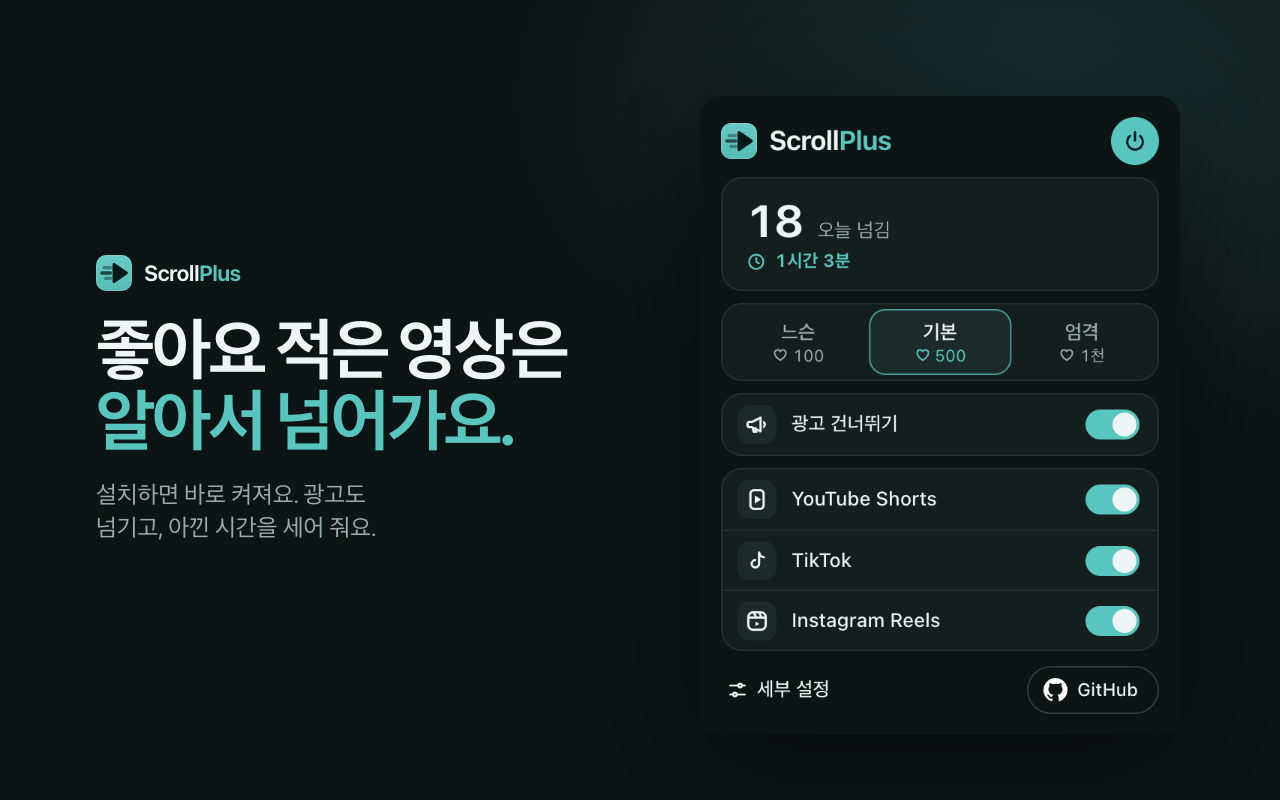
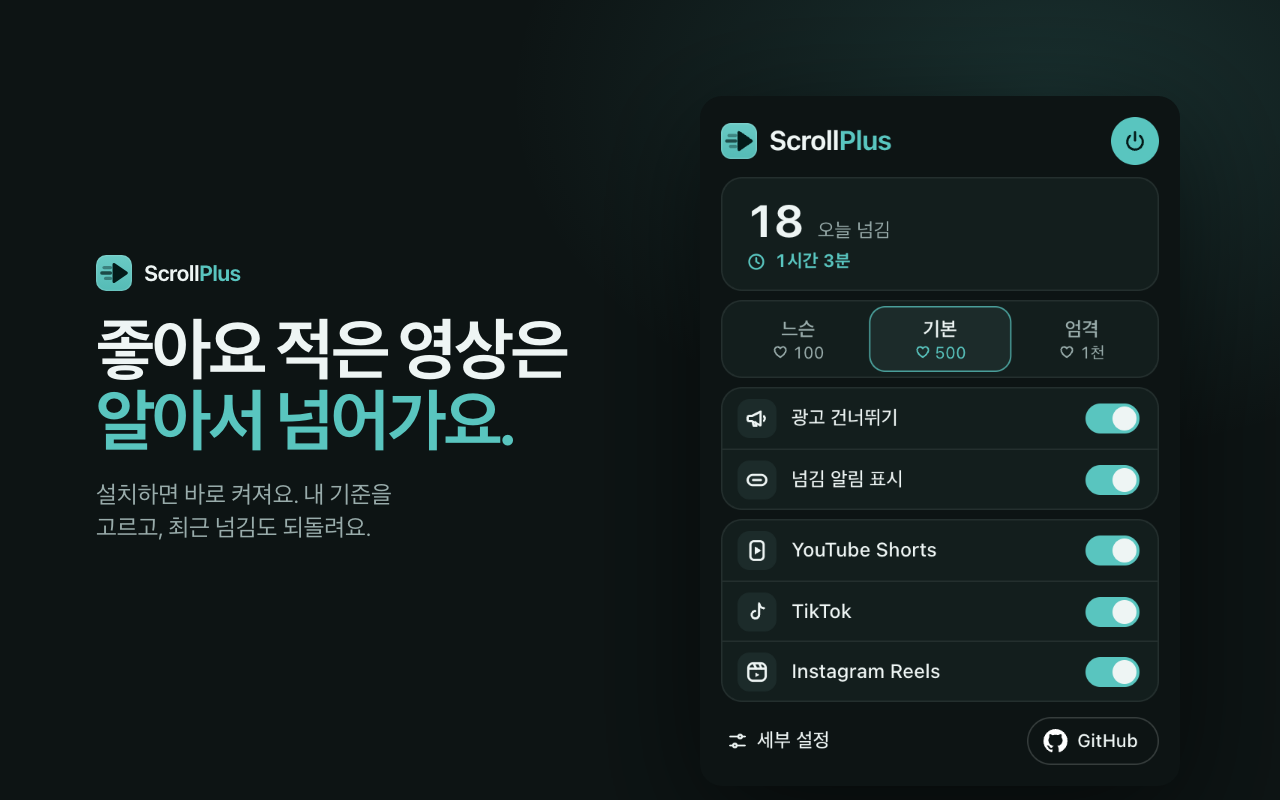
Prepare 0.7.5 Store update with compact notices and popup recovery

diff --git a/wxt.config.ts b/wxt.config.ts
@@ -9,7 +9,7 @@ export default defineConfig({
     short_name: '__MSG_appName__',
     description: '__MSG_extDesc__',
     default_locale: 'en',
-    version: "0.7.4",
+    version: "0.7.5",
     minimum_chrome_version: "120",
     permissions: ['storage'],
     host_permissions: [

diff --git a/ROADMAP.md b/ROADMAP.md
@@ -1,37 +1,24 @@
 # ScrollPlus launch roadmap
 
-Updated 2026-10-20. Published Store beta: [0.7.3, Free/Unlisted](https://chromewebstore.google.com/detail/bpiliaicdpeflblgjneilaphgjkgfmja), with the final left-gutter notice from PR #51. Public GitHub ZIP: 0.7.2.
+Updated 2026-10-25. The public [Store listing](https://chromewebstore.google.com/detail/bpiliaicdpeflblgjneilaphgjkgfmja) showed **0.7.4**, updated 2026-10-20. The owner chose **Free/Public with automatic publication after review** on 2026-10-20, superseding the earlier Unlisted/deferred launch plan. GitHub's downloadable beta remains 0.7.2.
 
-Next update: [0.7.4 submitted for review on 2026-10-20](store/update-074.md), incorporating the post-submission Reels fixes from PR #54 and the [native ad-disclosure correction](qa/reels-ad-disclosure-20261014.md). It is pending review with automatic publication off; published0.7.3 remains installable. The first-review package and instructions remain preserved. Approval of0.7.3 does not approve this update.
+## Current update
 
-**Assessment:** 0.7.3 passed review with deferred publication. On 2026-10-20 the owner chose to publish the approved version first and follow with 0.7.4. The dashboard now confirms Published/Unlisted; its public listing and an actual signed-out Chrome installation work. The installed 500-like default skips a 64-like Short, Undo returns to the same video, and reload keeps it. See [publication QA](qa/store-publication-20261020.md). This is a short delivery/basic-function check, not ordinary day-long use, all-site compatibility or demand validation.
+The owner approved continuing after the compact-notice/popup-recovery source change merged in [PR #56](https://github.com/jeongjin0/scrollplus/pull/56). Prepare and submit **0.7.5** through the same Store item. [Update checkpoint](store/update-075.md) records actual submission/delivery state; [candidate QA](qa/release-readiness-075.md) separates current checks from historical evidence.
 
-The owner requested first review on 2026-10-14 with the live-QA gaps disclosed, then explicitly approved the 0.7.3 publication → Store install/basic check → 0.7.4 follow-up sequence on 2026-10-20. Domain payment, a separate website and a switch to searchable Public visibility are not part of this publication. See the [checkpoint](store/draft-readiness.md) and [candidate QA](qa/release-readiness-073.md).
+- Compact count/Undo notifications default on, with Detailed available in Settings. An explicitly disabled notification stays off during upgrade.
+- Popup Keep going/Lower the bar after six skips, plus latest adjacent Undo when the notice expires or cannot fit.
+- No new permissions, server, analytics, persistent video identifiers or schema change. Existing local data declarations remain applicable.
+- Freeze the checked ZIP, verify the actual 0.7.4 → 0.7.5 upgrade, refresh English/Korean Store metadata/screenshots and reviewer instructions, and submit with Public/automatic publication preserved.
+- After review/publication, verify the public version and actual Store delivery. A local unpacked upgrade does not establish Store delivery.
 
-## Where the product stands
+## Remaining product validation
 
-| Milestone | State | Evidence / remaining work |
-| --- | --- | --- |
-| Product and UX | Implemented | Zero-setup defaults, 100/500/1,000-like presets, custom hard count rules, three platforms, ads, followed-creator keep, Undo/session persistence, side chip, aggregate time saved |
-| Automated quality | Passed for submitted and next candidates | 0.7.3: 126 units and 80 browser cases. The unchanged corrected 0.7.4 runtime plus follow-refresh regressions at `63ac4e0` passes 126 units and 88 browser cases on current Chromium and Chrome 120 in both [push CI](https://github.com/jeongjin0/scrollplus/actions/runs/38626058360) and [PR CI](https://github.com/jeongjin0/scrollplus/actions/runs/38626064828); both built ZIPs match the installed candidate. Controlled follow signals are not live follow persistence |
-| Live compatibility | Partially verified | Signed-out YouTube low-like/ad skips; signed-in YouTube subscribed exception in the submitted build; corrected 0.7.4 Reels followed on/off, notice motion and one real ad on/off/Undo; TikTok default 325-like skip and three real ads on/off with two Undo actions. [Follow diagnosis](qa/tiktok-follow-diagnosis-20261015.md) reproduces success acknowledgement followed by relationship 0 with ScrollPlus fully removed, including a same-viewer browser-no-store read. Its exact internal cause and the live followed-positive exception remain unverified. Broader ad variants and ordinary day-long use remain open; historical 24-hour/login evidence belongs to its older version |
-| Submission package | Published0.7.3;0.7.4 pending review | Exact0.7.4 ZIP; English/Korean descriptions1968/1090 characters, existing screenshots and417-character version-specific reviewer instructions saved. Automatic publication off; [privacy policy](PRIVACY.md) and permission/data declarations remain applicable |
-| Store distribution | Published 0.7.3, Free/Unlisted | Actual dashboard and public listing confirmed 2026-10-20. Signed-out native Chrome Store installation, popup defaults/settings persistence, a default low-like skip and Undo/reload pass. Store-delivered upgrade and broader live cases remain open |
-| Website and domain | Use existing GitHub URLs for now | Cost-conscious beta preparation needs no new domain. `scroll.plus` remains a possible later independent address; purchase and deployment not done |
-| Real usefulness | Open | Small manual-feedback beta; no new analytics/backend is proposed |
+Scoped new-version YouTube checks and controlled three-site regressions do not establish all signed-in variants or ordinary day-long use. Current TikTok followed-positive relation persistence, broader ad variants and full-day human use remain open. Reels stays experimental. Historical native evidence remains in [0.7.4 QA](qa/release-readiness-074.md), [signed-in smoke](qa/signed-in-smoke.md) and [release readiness](qa/release-readiness.md).
 
-## Launch sequence
+A proposed manual-feedback beta with roughly 5–10 people for 3–7 days can ask: did it skip wanted videos, did Undo work, was the notice distracting, did the defaults filter enough, and would they keep it enabled? No telemetry or account is required. The numbers are operating suggestions, not a Google requirement or statistical validation. Contacting people, a paid domain or a separate website is outside this update.
 
-Steps 1, 3 and 4 are complete for0.7.3, including an actual Store installation/basic smoke check.0.7.4 is now pending review in the same item while0.7.3 remains available. Its manual publication and actual Store-upgrade check follow approval; small-beta feedback and the broader live cases remain open.
-
-1. Freeze a release candidate after the submission documentation is settled. Use its exact ZIP/hash for live QA, screenshots and reviewer instructions. Do not carry another package's pass into this one.
-2. Finish a focused live matrix before wider rollout: low-like skip, passing-video keep, Undo → reload, current followed/subscribed keep, ad on/off where a live ad is encountered, hidden-tab stop/return, and six-skip pause. Use the sites' existing signed-in sessions; do not turn a review into unrelated account-entry testing. Record a missing live case as unverified. Keep Reels experimental if its latest paths cannot be observed. If a site’s basic skip/Undo path fails, repair it before including that support claim in a submission.
-3. Recheck the saved Store draft against the final package: publisher details, single purpose, storage/host explanations, local-data declarations, privacy/support URLs and [reviewer instructions](store/reviewer-instructions.md). Contact verification is complete. Keep private account identifiers and verification links out of repository documentation. See the [draft checkpoint](store/draft-readiness.md).
-4. Launch one **unlisted Store item** after owner approval. Use deferred publication during review. Testers can install from its direct URL; unlisted still has the same review/policy requirements as public/private. Use that same item for the later public rollout instead of creating parallel beta/stable items prematurely. [Google distribution guidance](https://developer.chrome.com/docs/webstore/cws-dashboard-distribution), [publication guidance](https://developer.chrome.com/docs/webstore/publish).
-5. Run a small beta with roughly 5–10 people for 3–7 days. Ask manually: Did it skip anything wanted? Did Undo work? Was the chip distracting? Did the defaults filter enough? Would they keep it enabled? Require no telemetry or account inside the extension. A reproducible wrong skip, failed Undo or distracting placement gets fixed before wider promotion. These sample sizes and durations are proposed operating choices, not Google requirements or statistical proof.
-6. Switch the same Store item to public and update the README/website install link once the basic paths and tester feedback support it. Store distribution then provides ordinary extension updates; an unpacked GitHub install still requires Reload.
-
-One short landing page is enough for the beta: a concrete promise, real extension screenshots, installation CTA, three-site/experimental-support note, GitHub, Privacy and Support. Account systems, pricing and extra features are outside this launch.
+Keep using the current GitHub introduction, privacy and support URLs. No new domain or purchase is needed for the Store update.
 
 ## Domain recommendation
 

diff --git a/store/listing-075.md b/store/listing-075.md
@@ -1,0 +1,71 @@
+# Chrome Web Store update listing · 0.7.5
+
+Prepared 2026-10-25 for the same Free/Public Store item. See [update checkpoint](update-075.md) for submission state. Titles/summaries come from the package locales. Images are rendered by `npm run assets`: popup, options, compact notice and six-skip recovery in English and Korean. Screenshot counters and feed are illustrative controlled data. No new permissions, data processing or single purpose.
+
+## English
+
+Title: ScrollPlus – Skip low-like short videos
+
+Summary: Skips Shorts, Reels, and TikToks with too few likes. On from the moment you install.
+
+Description:
+
+Skip short videos below the like count you choose. ScrollPlus is on from installation, with a default minimum of 500 likes and no initial setup.
+
+It works on the YouTube Shorts, TikTok and Instagram Reels websites in desktop Chrome. No ScrollPlus account is needed. Instagram Reels is experimental and requires sign-in on Instagram. It does not run inside mobile video apps.
+
+Video information is processed on your device. No page data is sent to the developer or third parties.
+
+Your rules
+• Choose Lenient (100 likes), Balanced (500) or Strict (1,000). Videos below the selected minimum are skipped.
+• Set your own minimum likes, comments and views, choose sites, and keep specific creators in Settings.
+• Skip ads is on by default. It moves past site-marked ads in the player. You can turn it off; it does not block ad requests or remove ads from lists.
+• Keep followed/subscribed creators is on by default when the page exposes that relationship. If it cannot be read, your count rules apply.
+
+Stay in control
+• Skip notifications are on by default in a compact count/Undo style. Open the count for details when there is space, or choose Detailed in Settings. Notices stay in safe space left of the player and hide when they cannot fit. Hover or focus to keep their controls available.
+• After six consecutive skips, the popup offers Keep going and Lower the bar. It also offers Undo for the latest adjacent skip after the notice disappears. Moving further, leaving the feed or reloading clears that Undo target. A video already restored stays kept for the browser session, including reloads and new tabs.
+• Unreadable counts are never treated as zero. Photo posts stay. After six consecutive skips, filtering pauses and asks before continuing.
+• The popup's saved-time value is an estimate based on 3 seconds per manual dismissal, minus the time each skipped video stayed on screen.
+
+Local and open source
+Settings and aggregate counters are stored locally. Temporary Undo choices stay in session memory. No follow list or complete browsing history is stored. See the privacy policy for details.
+
+Open source (MIT): https://github.com/jeongjin0/scrollplus
+ScrollPlus is not affiliated with YouTube, TikTok, Instagram or GitHub.
+
+Single purpose: Automatically skip short videos below the user's chosen likes, comments or views thresholds, and site-marked ads, on YouTube Shorts, TikTok and Instagram Reels. Provide Undo and optional creator/follow exceptions using data already loaded on these sites.
+
+## Korean
+
+제목: ScrollPlus – 좋아요 적은 숏폼 건너뛰기
+
+요약: 좋아요가 적은 쇼츠, 릴스, 틱톡을 넘깁니다. 설치하면 바로 켜집니다.
+
+설명:
+
+좋아요가 내가 정한 기준보다 적은 숏폼 영상을 자동으로 넘깁니다. 설치하면 기본 500개 기준으로 바로 켜지고, 첫 설정은 필요 없습니다.
+
+데스크톱 Chrome의 유튜브 쇼츠·틱톡·인스타그램 릴스 웹사이트에서 작동합니다. ScrollPlus 가입은 필요 없습니다. Instagram Reels는 Instagram 로그인 상태에서 사용하는 실험 기능입니다. 모바일 영상 앱에는 적용되지 않습니다.
+
+영상 정보는 기기 안에서 처리하며, 개발자나 제삼자에게 페이지 데이터를 전송하지 않습니다.
+
+내 기준으로 보기
+• 느슨 100개, 기본 500개, 엄격 1,000개 중에서 고르면 해당 좋아요 수 미만의 영상을 넘깁니다.
+• 세부 설정에서 좋아요·댓글·조회수의 최소 개수, 적용 사이트, 계속 보고 싶은 제작자를 직접 지정할 수 있습니다.
+• 광고 건너뛰기는 기본으로 켜집니다. 사이트가 광고로 표시한 플레이어 영상을 넘기며, 끌 수 있습니다. 광고 요청을 차단하거나 목록의 광고를 지우지는 않습니다.
+• 구독·팔로우 중인 제작자 유지도 기본으로 켜집니다. 페이지에서 관계를 확인할 수 없으면 설정한 수치로 판단합니다.
+
+편하게 되돌리기
+• 넘김 알림은 기본으로 켜지며, 작은 숫자와 되돌리기를 표시합니다. 여백이 있을 때 숫자를 누르면 자세히 볼 수 있고, 설정에서 자세한 표시를 고를 수도 있습니다. 알림은 플레이어 왼쪽의 안전한 여백에만 표시하며 공간이 없으면 숨깁니다. 마우스를 올리거나 키보드로 초점을 두면 사용할 시간을 유지합니다.
+• 여섯 번 연속 넘긴 뒤에는 팝업에서 이어서 보거나 기준을 낮출 수 있습니다. 알림이 사라져도 바로 직전 넘김은 팝업에서 되돌릴 수 있습니다. 더 이동하거나 피드를 벗어나거나 새로고침하면 이 버튼은 사라집니다. 이미 되돌린 영상은 브라우저 세션 동안 새로고침·새 탭에서도 유지됩니다.
+• 읽지 못한 수치는 0으로 취급하지 않습니다. 사진 게시물은 유지하고, 여섯 번 연속 넘기면 멈추고 물어봅니다.
+• 절약 시간은 직접 넘기는 데 영상당 3초가 걸린다는 가정에서 실제 표시 시간을 뺀 추정치입니다.
+
+기기 안에 저장하는 오픈소스
+설정과 합계는 로컬 저장소에, 일시적인 되돌리기 선택은 세션 메모리에 남습니다. 팔로우 목록이나 전체 방문 기록은 저장하지 않습니다. 자세한 내용은 개인정보 정책에서 확인할 수 있습니다.
+
+오픈소스(MIT): https://github.com/jeongjin0/scrollplus
+ScrollPlus는 YouTube, TikTok, Instagram, GitHub와 제휴 관계가 없습니다.
+
+단일 목적: 유튜브 쇼츠, 틱톡, 인스타그램 릴스에서 사용자가 정한 좋아요·댓글·조회수 기준 아래의 영상과 사이트가 표시한 광고를 자동으로 넘깁니다. 사이트가 이미 불러온 정보를 사용하며, 되돌리기와 제작자·구독/팔로우 예외 옵션을 제공합니다.

diff --git a/README.md b/README.md
@@ -32,7 +32,7 @@ In Settings you can also turn on a minimum for comments or views, switch a site 
 
 **The skip chip** stays in the video's left gutter and follows it when a comments panel opens or closes. If no safe space exists on the left, the notice stays hidden. Reels waits for scrolling to settle before showing it. Notifications can be turned off without disabling the six-skip safety pause.
 
-**Unreleased source update (2026-10-25):** notifications start compact, with a count and Undo. Click the count for details when there is room; Settings also offers a detailed style, explains the display conditions and previews both styles. Hovering or focusing notification controls keeps them available. The popup provides the six-skip pause's Keep going/Lower the bar actions and the latest adjacent Undo even after the notice expires or cannot fit. Recovery actions take the place of the popup's site rows; all site switches remain in Settings. Moving beyond the next video, leaving the feed or reloading retires the popup Undo target. Existing session keep choices still survive reloads. This source update has not been released through the Store.
+**0.7.5 update candidate (2026-10-25):** skip notifications start compact, with count and Undo; open the count for details when safe space exists, or choose Detailed in Settings. Hover/focus keeps controls available. The popup offers Keep going/Lower the bar after six skips, and Undo for the latest adjacent skip after its notice expires or cannot fit. Moving further, leaving the feed or reloading clears that Undo target; a video already restored stays kept for the browser session. See the [update checkpoint](store/update-075.md) for Store delivery state.
 
 A skip is the site's own Next control, pressed for you, so you see the usual slide to the next video. On YouTube Shorts a skipped video is on screen for about half a second, and it is muted meanwhile. That half second is YouTube's own pace between moves ([timing](qa/skip-timing.md)). On TikTok a skipped video is on screen for about 0.4 s, with its sound on: TikTok takes a mute made by a script as your own choice, so ScrollPlus leaves it alone ([timing](qa/skip-timing-tiktok.md)). On Instagram Reels it is about 0.3 s, measured signed in with the built scripts run in the page ([timing](qa/skip-timing-instagram.md)).
 
@@ -44,11 +44,9 @@ Supported: YouTube Shorts, TikTok, and Instagram Reels on the web, in English an
 
 ## Status
 
-ScrollPlus is a beta available on the [Chrome Web Store](https://chromewebstore.google.com/detail/bpiliaicdpeflblgjneilaphgjkgfmja). Version **0.7.3** was published on 2026-10-20 as a free, unlisted item; anyone with its link can install it. It is not listed in Store discovery.
+ScrollPlus is a free beta on the [Chrome Web Store](https://chromewebstore.google.com/detail/bpiliaicdpeflblgjneilaphgjkgfmja). The public listing showed **0.7.4**, updated 2026-10-20, when checked on 2026-10-25. The owner chose Free/Public distribution and automatic publication after review on 2026-10-20; this supersedes the earlier unlisted/deferred launch instructions.
 
-The next launch steps and remaining live checks are in [ROADMAP.md](ROADMAP.md). The exact Store installation, default 500-like skip, Undo and reload check are recorded in [publication QA](qa/store-publication-20261020.md). The [submission checkpoint](store/draft-readiness.md) preserves the earlier first-review history.
-
-The [0.7.4 update](store/update-074.md) includes the subsequent Reels notice, followed-account and wide ad-disclosure fixes. It was submitted for Store review on 2026-10-20 with automatic publication off and is pending review. The install link continues to serve0.7.3. See [candidate QA](qa/release-readiness-074.md).
+The next **0.7.5** package contains compact notifications and popup recovery from [PR #56](https://github.com/jeongjin0/scrollplus/pull/56). Preparation/review submission is separate from approval and delivery: [update checkpoint](store/update-075.md), [candidate QA](qa/release-readiness-075.md), [roadmap](ROADMAP.md).
 
 - Tested on controlled pages for all three sites, including Chrome 120, the oldest supported version.
 - Tried on real feeds: YouTube Shorts (a 24-hour automated run on 0.3.5, with two page-reload recoveries), TikTok For You, and Instagram Reels in a signed-in browser. Instagram Reels is the newest and least exercised site.
@@ -65,7 +63,7 @@ The [0.7.3 first-review candidate](qa/release-readiness-073.md) contains the qui
 
 Install from the [Chrome Web Store](https://chromewebstore.google.com/detail/bpiliaicdpeflblgjneilaphgjkgfmja). No developer mode or ScrollPlus account is required. Chrome 120 or newer; Instagram Reels requires Instagram sign-in and remains experimental.
 
-For an unpacked development build, use the zip on the [GitHub beta releases page](https://github.com/jeongjin0/scrollplus/releases): unzip it, open `chrome://extensions`, turn on Developer mode, and choose Load unpacked. The GitHub ZIP remains 0.7.2; the Store version is 0.7.3. Keep only one copy enabled.
+For an unpacked development build, use the zip on the [GitHub beta releases page](https://github.com/jeongjin0/scrollplus/releases): unzip it, open `chrome://extensions`, turn on Developer mode, and choose Load unpacked. The GitHub ZIP remains 0.7.2; the last checked Store version is 0.7.4. Keep only one copy enabled.
 
 To update a beta, replace the contents of the unpacked folder you already loaded with the new ZIP's files, then click Reload on the ScrollPlus card in `chrome://extensions`. Keep only one copy enabled. Extension reloads clear temporary Undo choices. Updating from 0.4.x moves your settings once: each preset keeps its name (Balanced is 500 likes now, it was 5,000), a rule of your own stays as it is, and Skip ads turns on.
 

diff --git a/store/reviewer-instructions-075.md b/store/reviewer-instructions-075.md
@@ -1,0 +1,24 @@
+# Chrome Web Store update test instructions · 0.7.5
+
+Prepared 2026-10-25. The exact package, checks and submission state are in [update checkpoint](update-075.md). This is a test procedure, not a claim that every live case has passed. The dashboard summary links to the immutable revision of this file and stays within its 500-character limit. Reviewer username/password fields stay blank: ScrollPlus has no account system.
+
+## Setup
+
+Use desktop Chrome 120 or later. Install the submitted 0.7.5 package. Defaults: enabled, Balanced minimum 500 likes, Skip ads on, Keep accounts I follow on, skip notifications on in Compact style. No ScrollPlus sign-in or setup is needed. YouTube Shorts/TikTok can expose feeds while signed out; Instagram Reels remains experimental and needs your own Instagram login. Never share the owner's credentials.
+
+## Focused update checks
+
+1. Open `https://www.youtube.com/shorts/` or `https://www.tiktok.com/foryou`. For Reels, use your own Instagram session and open its Reels feed. Unknown counts and photo posts stay.
+2. In Settings, temporarily raise Likes above a readable current count with Comments/Views off. The site advances. A compact count and Undo appear briefly in safe space left of the video; they remain hidden if no safe space exists. Reels waits for scrolling to settle. Open the count by click or keyboard for details when a full card fits; Settings also offers Detailed. Neither style covers the video or moves to its right. Hover/focus keeps controls available; the notice normally lasts 2.5 seconds.
+3. After a skip's notice expires, open the extension popup while still on the immediate next video. Use Undo: the last skipped video returns. It stays kept through reloads/new tabs for the browser session. Manually move further, leave the feed or reload before Undo and the popup no longer offers that old target. Browser restart/extension update clears temporary session choices.
+4. Allow six consecutive skips. Filtering pauses. Even if notifications are off or there is no left gutter, open the popup: Keep going resumes; Lower the bar lowers the enabled thresholds and resumes. Undo returns to the last skipped video. Changing only notification style/on-off must not resume a paused run. Return Likes to 500 when finished.
+5. Toggle the master switch off: no new automatic moves. Reenable to resume. All site switches are in Settings. The popup shows the current supported site's switch, or all three outside supported feeds; recovery controls take those rows' place when available.
+6. On a low-like video from a creator visibly subscribed/followed in the current card, Keep accounts I follow keeps it only when the page exposes that relation. If unavailable, count rules apply. Ads still skip when Skip ads is on. A disclosed player ad stays with Skip ads off; on advances it. No ad network blocking is claimed.
+7. Background the feed: no new automatic moves until return; an already-issued move may finish. Comment editing, an open menu or held pointer waits. The six-skip pause still applies if its last move finishes while hidden.
+8. Reset defaults clears temporary Undo choices, restores the 500-like rule and Compact notifications, and preserves explicitly saved creators and aggregate counters. An upgrade from 0.7.4 preserves custom settings, an explicit notification-off choice, creators and counters. A legacy setting with no style falls back to Compact.
+
+English/Korean follow Chrome's UI language. Grid filtering is optional and off by default. Time saved is a local estimate using 3 seconds per dismissal minus actual on-screen time; it is not observed personal usage measurement.
+
+## Data and code
+
+Only `storage` and the same three HTTPS `www` host permissions are used. No new permission, backend, analytics, payment, ScrollPlus account or remotely hosted executable code. All processing stays on device. Persistent settings/aggregate counters and memory-only Undo choices are disclosed in [PRIVACY.md](../PRIVACY.md).

diff --git a/qa/release-readiness-075.md b/qa/release-readiness-075.md
@@ -1,0 +1,24 @@
+# ScrollPlus 0.7.5 release readiness
+
+Prepared 2026-10-25 after the owner authorized the Store update following [PR #56](https://github.com/jeongjin0/scrollplus/pull/56). Candidate runtime is that merged change plus the manifest version bump; no additional runtime behavior changed here.
+
+## Package identity
+
+- ZIP: `.output/scrollplus-0.7.5-chrome.zip`, 157193 bytes.
[1 lines of base64/hex data omitted]
+- MV3, Chrome 120 minimum, `storage` only, same three HTTPS `www` host permissions, no external-connectable entry. Package validation passes. Defaults: 500 likes, ads/follow exceptions on, notifications on/Compact. Storage schema remains 3.
+- English/Korean Store images were rendered from the candidate. Recovery screenshots use a controlled feed and illustrative counters, not private site content. Compact notice scale stays close to its real size.
+
+## Current checks
+
+- `npm ci`, `npm run compile`, 133 unit tests, production ZIP and package check pass.
+- Local current-Chromium suite: 93/94 initially pass. The YouTube ad case timed out waiting for the 2.5-second notice's Undo while browser captures were also running. Failure trace/context preserved at `qa/tmp/release-075-first-failure/`; rerunning that exact failed case unchanged passes (9.6 s). This does not alone establish the cause. Exact release-head CI must pass before landing/submission.
[1 lines of base64/hex data omitted]
+- Real signed-out YouTube Shorts on Chromium 153.0.8010.12, 2026-10-25 21:47:53–21:48:03 KST: feed/defaults available, zero default-bar skips in the bounded sample. A temporary 100,000,000-like bar produces six skips and a pause; real popup Undo moves back. No extension page error collected; 500 restored and browser closed. Evidence: `qa/tmp/notice-review/live-smoke.json` and PNGs. This does not prove a new default-bar low-like sample or new signed-in TikTok/Reels compatibility.
+- The source change's exact-head Chrome 120/current-browser checks and English/Korean 320×480 fit evidence remain in [notice recovery QA](notice-popup-recovery-20261025.md). New release CI is recorded in the update checkpoint.
+
+## Limits and delivery
+
+No new all-day-use, live followed-positive TikTok, broad ad-variant or signed-in Reels claim. Existing version-scoped evidence remains in [0.7.4 readiness](release-readiness-074.md). Reels stays experimental. Existing privacy/data declarations remain applicable: no new permissions, server, analytics, persistent video IDs or data category.
+
+[Store update checkpoint](../store/update-075.md) records actual upload, review and publication state. Preparing/submitting an update does not establish approval or public delivery.

diff --git a/store/update-075.md b/store/update-075.md
@@ -1,0 +1,25 @@
+# ScrollPlus 0.7.5 Store update
+
+Prepared 2026-10-25. The owner approved continuing the remaining next steps after the notification/popup improvement merged. Use the existing Store item `bpiliaicdpeflblgjneilaphgjkgfmja`, retaining Free/Public distribution and automatic publication after review. This supersedes the older Unlisted/deferred launch instructions; no separate Store item, paid domain or new website is needed.
+
+## State
+
+- Last public listing check, 2026-10-25: version 0.7.4, updated 2026-10-20.
+- 0.7.5 candidate prepared; actual upload/submission is not yet recorded here.
+- Existing publisher session needs routine Google reauthentication; use existing saved credentials, never repository credentials or reviewer password fields.
+
+## Candidate
+
[1 lines of base64/hex data omitted]
+
+- [Candidate QA and limits](../qa/release-readiness-075.md).
+- [English/Korean listing](listing-075.md).
+- [Version-specific reviewer instructions](reviewer-instructions-075.md). The dashboard summary must stay within 500 characters and link to a public immutable revision of this file after landing. ScrollPlus has no account; username/password fields remain blank.
+- Images: English `store/screenshots/{popup,options,chip,recovery}.png`, Korean equivalents under `ko/`; 1280×800. Promo tiles/marquees keep existing dimensions.
+- Same storage/host permissions, privacy policy/support URLs, single purpose and local data declarations. Review them against the final dashboard rather than inferring acceptance from a ZIP build.
+
+## Submission and verification
+
+Land only after all required exact-head checks pass and the current assessment is recorded. Recheck draft/published versions to avoid replacing an active new review or uploading twice. Upload the complete checked ZIP, save changed metadata and localized screenshots, verify Free/Public and current declarations, then submit with automatic publication on. Record the accepted state. After publication, verify the public version and Store-delivered update separately from local upgrade QA.
+
+Official process: [update guidance](https://developer.chrome.com/docs/webstore/update). A review submission leaves the previously published version available until the new version is published.

diff --git a/SPEC.md b/SPEC.md
@@ -4,7 +4,7 @@ This file is the product spec. Implement it. Do not add features that are not wr
 
 ## Authorized notice and popup recovery update — 2026-10-25
 
-The owner approved implementing the high-confidence notice improvements after a code/controlled-screen review. This section supersedes the older notice presentation rules below. It does not authorize a new release or Store publication.
+The owner approved implementing the high-confidence notice improvements after a code/controlled-screen review. This section supersedes the older notice presentation rules below. On 2026-10-25, after the source change merged, the owner authorized continuing the remaining next steps: prepare the 0.7.5 update and submit it through the existing Store item, retaining Free/Public distribution and automatic publication after review. This supersedes the older deferred/unlisted launch instructions below.
 
 - Notifications remain on by default. A compact count/Undo notice is the default; Settings offers compact or detailed presentation and preserves an explicitly saved off choice. Clicking or keyboard-activating the count reveals details when a full card fits safely on the left. Never place a notice over the video or to its right.
 - Settings calls this “Skip notifications”, explains the brief left-gutter display, lack-of-space hiding and separate six-skip safety pause, and includes a representative preview.

diff --git a/CHANGELOG.md b/CHANGELOG.md
@@ -1,6 +1,13 @@
 # Changelog
 
-## 0.7.4 – update candidate (not published)
+## 0.7.5 – Store update candidate
+
+- Skip notifications start compact, with a count and Undo. Open the count for details when safe left-gutter space is available, or choose the detailed style in Settings. An existing off choice stays off.
+- The popup now offers Keep going and Lower the bar after six consecutive skips, plus Undo for the latest adjacent skipped video when the brief notification has gone or cannot fit.
+- Hovering or focusing notification controls keeps them available. Appearance changes preserve the safety pause, and popup actions reject stale tab/document state.
+- Filtering thresholds, followed-creator/ad rules, permissions and storage schema remain unchanged. Version-specific checks and limits: [0.7.5 readiness](qa/release-readiness-075.md).
+
+## 0.7.4 – published 2026-10-20
 
 - Instagram recognises a small Ad disclosure even when its span stretches across the caption column. Ads off keeps the disclosed ad below the count minimum; ads on skips it with the ad reason. Hidden and off-screen disclosure text is ignored.
 

diff --git a/store/submission-checklist.md b/store/submission-checklist.md
@@ -1,6 +1,6 @@
 # Chrome Web Store submission checklist
 
-The owner chose an initial review submission on 2026-10-14, accepting the disclosed live-QA limitations. This checklist distinguishes preparation, review submission and later manual publication.
+Current update: [0.7.5](update-075.md), authorized 2026-10-25. Same Free/Public item, automatic publication after review, following the owner’s 2026-10-20 distribution decision. The older initial-review instructions below are historical where they mention Unlisted or deferred publication. Current package, listing and reviewer instructions must match the version being submitted.
 
 ## Before you start
 
